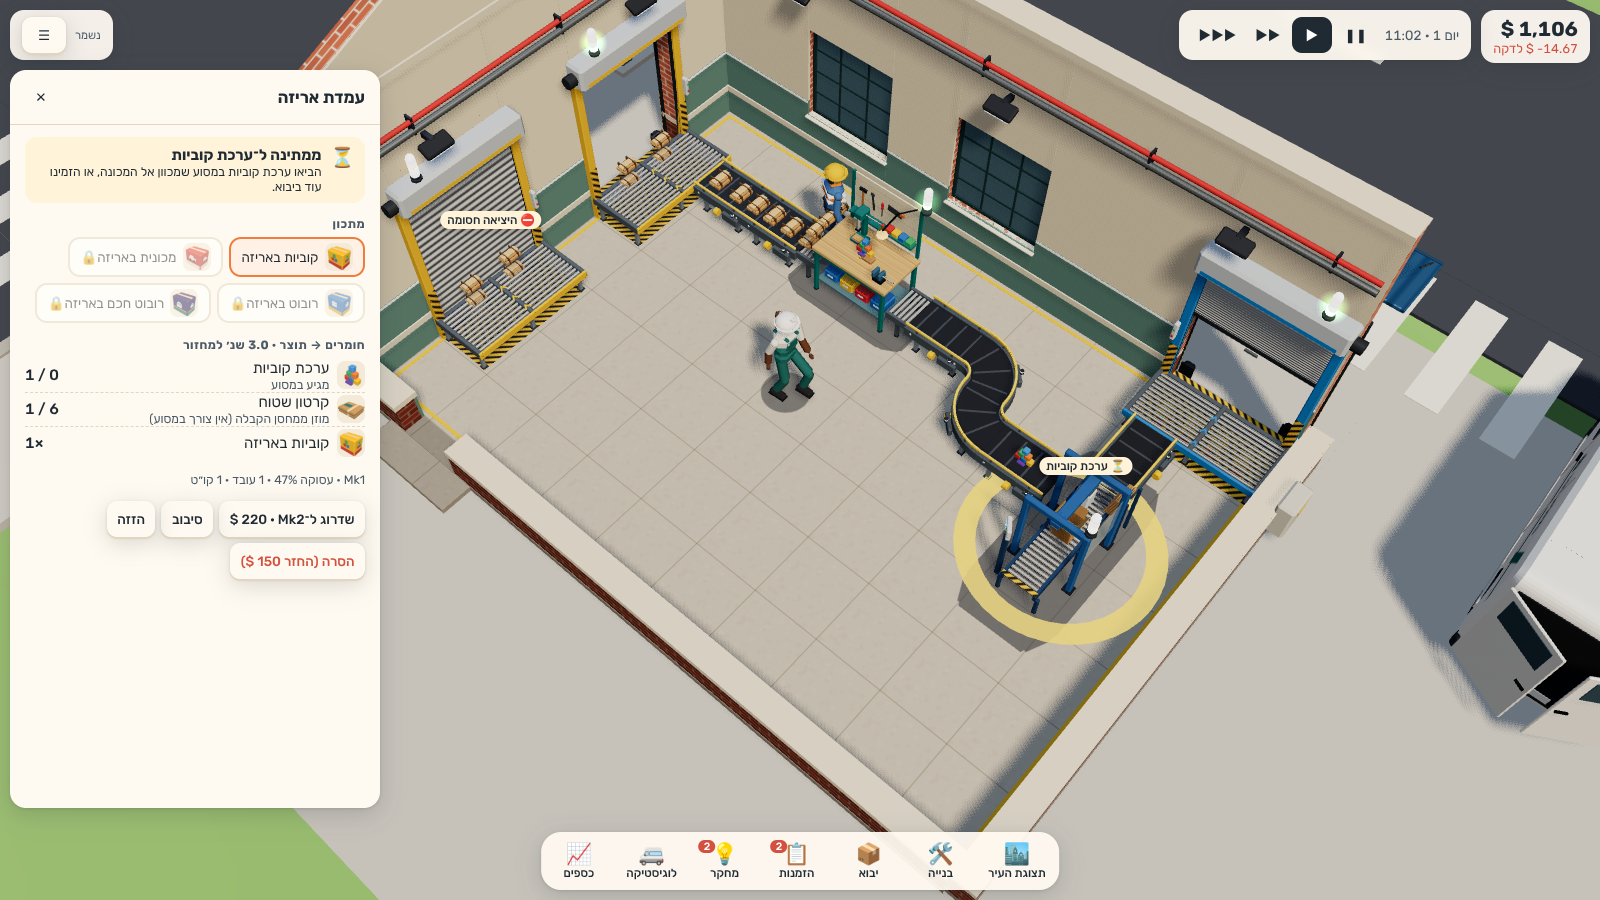
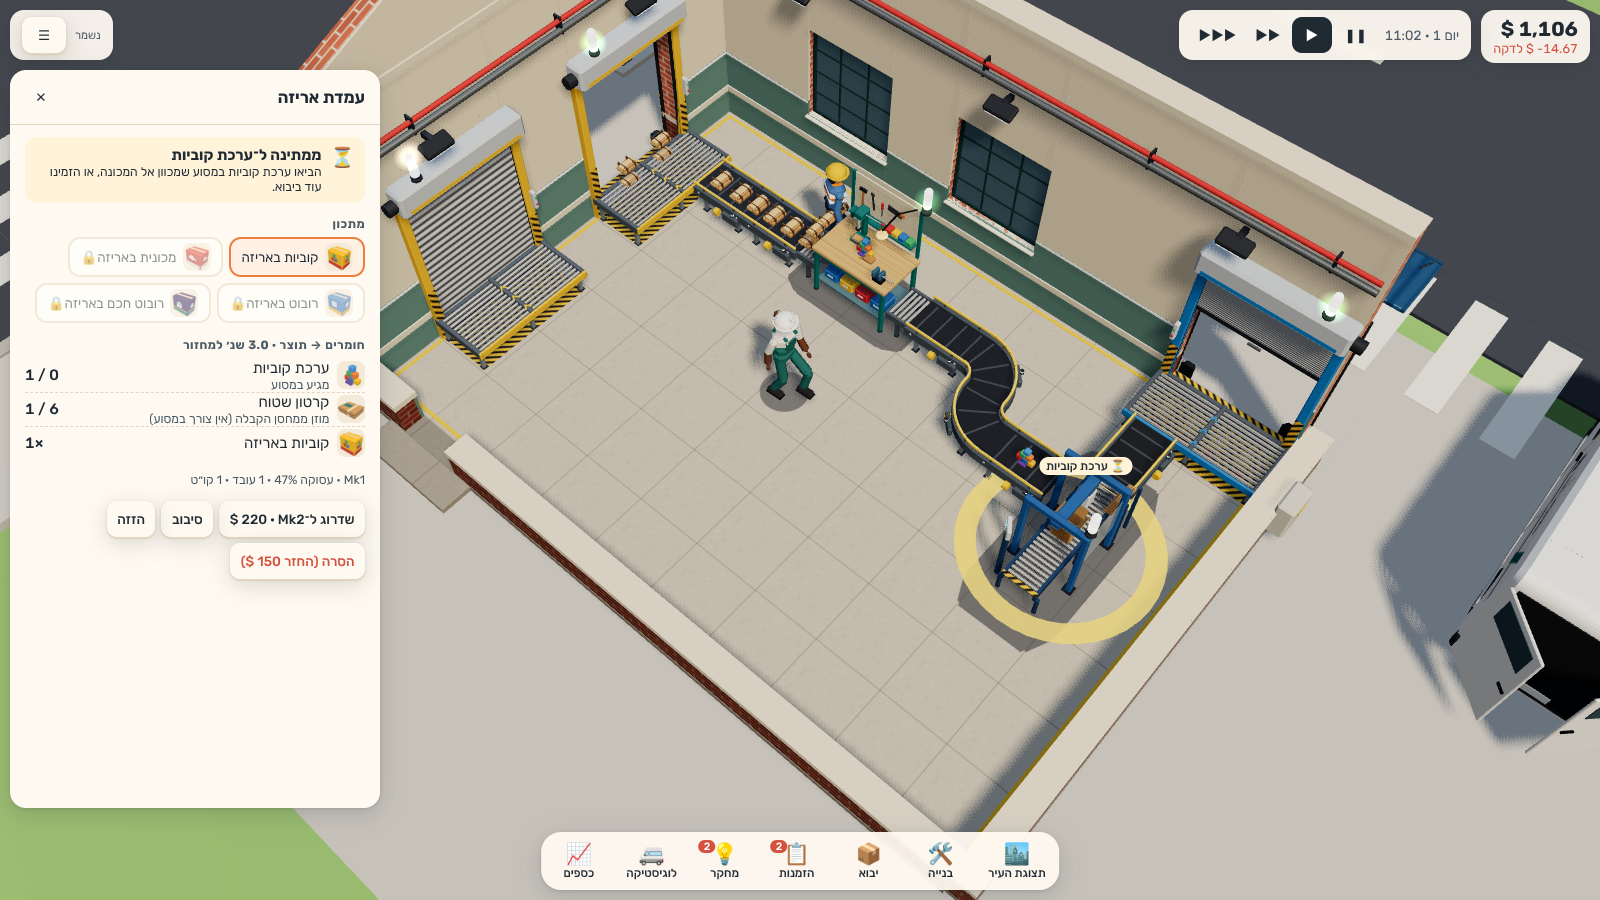
Select-to-focus camera in city view; platform matrix records automated browser evidence; full gameplay capture set
Claude-Session: https://claude.ai/code/session_01QUCVJJ8vSf1g5xenrdUj19

diff --git a/src/ui/App.ts b/src/ui/App.ts
@@ -873,6 +873,12 @@ export class App implements UiCtx {
     if (sel) this.sheet = null;
     this.showSupplyRoutes(sel);
     this.view.openBuilding = sel?.type === 'building' && this.sim.s.stores[sel.id] ? sel.id : null;
+    // In the city view, bring the selected building into frame (the panel covers the inline-end side).
+    if (sel?.type === 'building' && !this.interior) {
+      const b = this.sim.s.buildings.find((x) => x.id === sel.id);
+      const f = b ? this.sim.s.factories[b.id] : undefined;
+      if (b) this.view.rig.setGoal({ x: f ? b.x + f.w / 2 : b.x, z: f ? b.z + f.h / 2 : b.z });
+    }
     for (const fv of this.view.factories.values()) fv.highlight.clear();
     if (sel?.type === 'entity') this.view.factories.get(sel.f)?.highlight.add(sel.id);
     if (sel) this.audio.play('ui_tap');

diff --git a/docs/platform-matrix.md b/docs/platform-matrix.md
@@ -6,7 +6,7 @@ means nobody has checked it.
 
 | Platform / browser | Implemented | Builds | Installed | Tested | Release-ready | Evidence / blocker |
 |---|---|---|---|---|---|---|
-| Web — Chromium 153 headless (Linux, SwiftShader) | ✅ | ✅ `npm run build` | n/a | ⚠ Automated only: in-engine screenshots + console-error capture | ❌ | `captures/gameplay/report.json`. Software rendering, so no GPU or performance evidence |
+| Web — Chromium 153 headless (Linux, SwiftShader) | ✅ | ✅ `npm run build` | n/a | ⚠ Automated only. 15 in-engine scenes (phone 844×390, tablet 1180×820, desktop 1600×900; EN + HE) with 0 console errors. The end-to-end journey from fresh city to first sale passes using real input at desktop 1366×768 (mouse) and phone 844×390 (touch) | ❌ | `captures/gameplay/report.json`, `captures/e2e-evidence/`. Software rendering, so no GPU or performance evidence |
 | Web — desktop Chrome (GPU) | ✅ | ✅ (same bundle) | n/a | ❌ Unverified | ❌ | Needs a manual run on real hardware |
 | Web — desktop Edge | ✅ | ✅ | n/a | ❌ Unverified | ❌ | — |
 | Web — desktop Firefox | ✅ | ✅ | n/a | ❌ Unverified | ❌ | Playwright Firefox isn't installed in this environment |
